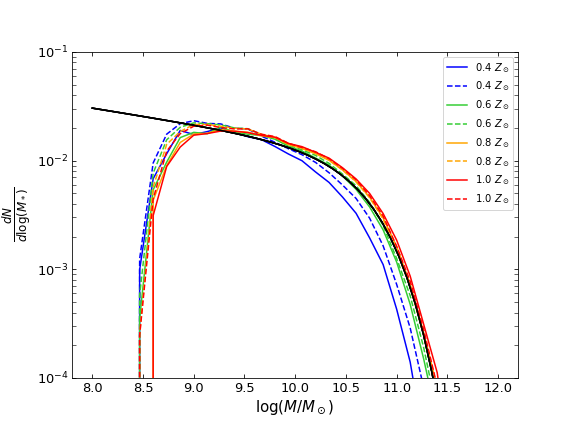
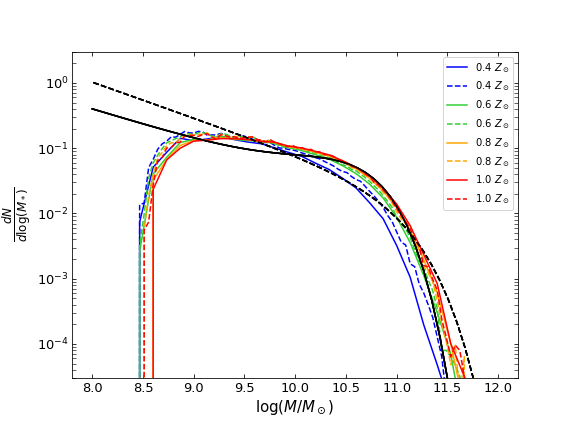
Changes to mass function

diff --git a/utilities.py b/utilities.py
@@ -8,28 +8,28 @@ Created on Tue Jun 18 10:34:22 2019
 """
 
 import numpy as np
-from astropy import units 
+from astropy import units
 
 import wquantiles as wq
 
+
 class Models():
 
-    def sfr(t,tau, M_inf):
+    def sfr(t, tau, M_inf):
         return M_inf/tau * t/tau * np.exp(-t/tau)
 
-
     def stellar_mass(tau, M_inf, t=13.7*1e9):
-        return M_inf * ( 1 - np.exp(-t/tau)*(tau+t)/tau)
+        return M_inf * (1 - np.exp(-t/tau)*(tau+t)/tau)
 
     def M_inf(tau, M_star, t=13.7*1e9):
         return M_star / (1 - np.exp(-t/tau)*(tau+t)/tau)
-    
+
     def ssfr(tau, t=13.7*1e9):
-        return (t/ tau**2 * np.exp(-t/tau))/( 1 - np.exp(-t/tau)*(tau+t)/tau)
-    
+        return t/tau**2 * np.exp(-t/tau) / (1 - np.exp(-t/tau)*(tau+t)/tau)
+
     def birth_rate_param_b(tau, t=13.7*units.Gyr):
         return t**2/(tau**2*np.exp(t/tau)-(t+tau)*tau)
-    
+
 
 class Statistics():
     def RunningMedian_2d(x, map_array, num_windows):
@@ -37,78 +37,78 @@ class Statistics():
         sorted_map = np.sort(map_array)
         runningmedian = []
         map_central_points= []
-        
+
         for i in range(0, num_windows):
             if i != num_windows-1:
                 window_positions = np.where((map_array>=sorted_map[i*window_elements])&(map_array>=sorted_map[(i+1)*window_elements]))[0]
-                runningmedian.append(np.nanmedian(x[window_positions])) 
-                map_central_points.append(np.nanmean(sorted_map[i*window_elements:(i+1)*window_elements]))                                  
+                runningmedian.append(np.nanmedian(x[window_positions]))
+                map_central_points.append(np.nanmean(sorted_map[i*window_elements:(i+1)*window_elements]))
             else:
                 window_positions = np.where(map_array>=sorted_map[i*window_elements])[0]
-                runningmedian.append(np.nanmedian(x[window_positions])) 
-                map_central_points.append(np.nanmean(sorted_map[i*window_elements:(i+1)*window_elements]))                                  
+                runningmedian.append(np.nanmedian(x[window_positions]))
+                map_central_points.append(np.nanmean(sorted_map[i*window_elements:(i+1)*window_elements]))
         return runningmedian, map_central_points
 
     def RunningMedian_2d2(x, map_array, window_width):
-        
+
         sorted_positions = np.argsort(map_array)
         x_ordered = x[sorted_positions]
-        
+
         runningmedian = []
         standard_deviation = []
         print('--> Generating runningmedian with ', window_width, ' neighbours per element \n')
         for i in range(len(x)):
-            
+
             if i<window_width//2:
                     runningmedian.append(np.nanmedian(x_ordered[:2*i]))
                     standard_deviation.append(np.nanstd(x_ordered[:2*i]))
-            elif i>(len(x)-window_width//2):                
+            elif i>(len(x)-window_width//2):
                     runningmedian.append(np.nanmedian(x_ordered[2*i-len(x):]))
                     standard_deviation.append(np.nanstd(x_ordered[2*i-len(x):]))
             else:
                 runningmedian.append(np.nanmedian(x_ordered[i-window_width//2:i+window_width//2]))
                 standard_deviation.append(np.nanstd(x_ordered[i-window_width//2:i+window_width//2]))
-                
+
         return np.array(runningmedian), np.array(standard_deviation)
-    
+
     def Runningpercentile_2d(x, map_array, window_width, q_percent):
-        
+
         sorted_positions = np.argsort(map_array)
         x_ordered = x[sorted_positions]
-        
+
         runningmedian = []
         standard_deviation = []
         print('--> Generating runningPercentile with ', window_width, ' neighbours per element \n')
         for i in range(len(x)):
-            
+
             if i<window_width//2:
                     runningmedian.append(np.nanpercentile(x_ordered[:2*i], q_percent))
                     standard_deviation.append(np.nanstd(x_ordered[:2*i]))
-            elif i>(len(x)-window_width//2):                
+            elif i>(len(x)-window_width//2):
                     runningmedian.append(np.nanpercentile(x_ordered[2*i-len(x):], q_percent))
                     standard_deviation.append(np.nanstd(x_ordered[2*i-len(x):]))
             else:
                 runningmedian.append(np.nanpercentile(x_ordered[i-window_width//2:i+window_width//2]
                 , q_percent))
                 standard_deviation.append(np.nanstd(x_ordered[i-window_width//2:i+window_width//2]))
-                
+
         return np.array(runningmedian), np.array(standard_deviation)
-    
+
     def Running_weighted_percentile_2d(x, map_array, weights, window_width, q_percent):
-        
+
         sorted_positions = np.argsort(map_array)
         x_ordered = x[sorted_positions]
         sorted_weights = weights[sorted_positions]
-        
+
         runningmedian = []
         standard_deviation = []
         print('--> Generating runningPercentile with ', window_width, ' neighbours per element \n')
         for i in range(len(x)):
-            
+
             if i<window_width//2:
                     runningmedian.append(wq.quantile_1D(x_ordered[:2*i+1], sorted_weights[:2*i+1], q_percent))
                     standard_deviation.append(np.nanstd(x_ordered[:2*i+1]))
-            elif i>(len(x)-window_width//2):                
+            elif i>(len(x)-window_width//2):
                     runningmedian.append(wq.quantile_1D(x_ordered[2*i-len(x)-1:], sorted_weights[2*i-len(x)-1:]
                     , q_percent))
                     standard_deviation.append(np.nanstd(x_ordered[2*i-len(x)-1:]))
@@ -116,30 +116,30 @@ class Statistics():
                 runningmedian.append(wq.quantile_1D(x_ordered[i-window_width//2:i+window_width//2],
                 sorted_weights[i-window_width//2:i+window_width//2],  q_percent))
                 standard_deviation.append(np.nanstd(x_ordered[i-window_width//2:i+window_width//2]))
-                
+
         return np.array(runningmedian), np.array(standard_deviation)
-    
-    def Bowley_YuleAsymm_coeff(q_075, q_050, q_025):    
+
+    def Bowley_YuleAsymm_coeff(q_075, q_050, q_025):
         """ Symmetric distributions will present q_075+q_025=2*q_050 """
         A_BY = (q_075+q_025-2*q_050)/(q_075-q_025)
         return A_BY
-    
+
 class Ansatz():
 
-    
-    def alpha12beta_powlaw(tau, tau_0, alpha1, alpha2, beta):        
-        
+
+    def alpha12beta_powlaw(tau, tau_0, alpha1, alpha2, beta):
+
         x = tau/tau_0
-        dN_dtau = pow(x, alpha1)/pow(1+x**beta, (alpha1+alpha2)/beta)        
+        dN_dtau = pow(x, alpha1)/pow(1+x**beta, (alpha1+alpha2)/beta)
         integral_dndtau_dtau = np.trapz(dN_dtau, tau)
         return  dN_dtau/(integral_dndtau_dtau)
-    
+
     def dpdtau(M, tau):
-        """The propability of presenting tau given a mass""" 
+        """The propability of presenting tau given a mass"""
         eta_tau = 0.07
         tau_c = 2.454
         tau_0 = tau_c*(M/(10**(10.13)))**eta_tau
-        
+
         eta1 = -0.65
         alpha_c1 = 3.7
         alpha1 = 1 +(alpha_c1-1)*(M/10**(10.13))**(eta1)
@@ -147,22 +147,22 @@ class Ansatz():
         eta2 = 0.65
         alpha_c2 = 3.7
         alpha2 = 1 +(alpha_c2-1)*(M/10**(10.13))**(eta2)
-                
+
         beta = 4
-        
+
         dpdtau = Ansatz.alpha12beta_powlaw(tau,
                                           tau_0,
                                           alpha1,
                                           alpha2,
                                           beta)
         return dpdtau
-    
-    def dndMass(M, Mprime=10**(10.6), alpha= -1.25, phi=1.5*1e10):        
+
+    def dndMass(M, Mprime=10**(10.6), alpha= -1.25, phi=1.5*1e10):
         """schechter_mass_function"""
         return phi*np.exp(-(M/Mprime))/Mprime *(M/Mprime)**(alpha+1)
-    
-    
-    
-    
-    
-    
+
+
+
+
+
+

diff --git a/schechter_mass_function_fit.py b/schechter_mass_function_fit.py
@@ -17,11 +17,11 @@ from utilities import Statistics as stat
 from utilities import Models as SFH
 
 
-""" 
+"""
 
 THIS CODE PROVIDES NEXT FIGURES:
-    
-    - COLOR-COLOR DIAGRAM WITH MODELS OVERPLOTED, COL-MAG DIAG WITH 
+
+    - COLOR-COLOR DIAGRAM WITH MODELS OVERPLOTED, COL-MAG DIAG WITH
     RUNNING PERCENTILES.
     - TAU-MASS DISTRIBUTION IN METALLICITY BINS WITH RUN-PERCENTS.
     - sSFR-MASS DISTRIBUTION IN METALLICITY BINS WITH RUN-PERCENTS.
@@ -44,7 +44,7 @@ g_r = g_abs-r_abs
 
 
 #%% =============================================================================
-# Tau assignment for each galaxy in the SDSS sample 
+# Tau assignment for each galaxy in the SDSS sample
 # =============================================================================
 
 u_r_lim =[1.2, 3.5]
@@ -77,46 +77,46 @@ for i, Z in enumerate(GOOD_MET):
     # Using u-r ----------------------------------------------
     tau_u_r_lim = [np.interp(u_r_lim[1], u_r_model[i], tau),
                    np.interp(u_r_lim[0], u_r_model[i], tau)]
-    
-    tau_u_r_p = np.interp(u_r, u_r_model[i], tau)    
-    
+
+    tau_u_r_p = np.interp(u_r, u_r_model[i], tau)
+
     tau_u_r_p[tau_u_r_p<tau_u_r_lim[0]] = np.nan
     tau_u_r_p[tau_u_r_p>tau_u_r_lim[1]] = np.nan
-    
+
     tau_u_r_met_bins.append(tau_u_r_p)
-    
+
     # Using g-r ----------------------------------------------
     tau_g_r_lim = [np.interp(g_r_lim[1], g_r_model[i], tau),
                    np.interp(g_r_lim[0], g_r_model[i], tau)]
-    
-    tau_g_r_p = np.interp(g_r, g_r_model[i], tau)    
+
+    tau_g_r_p = np.interp(g_r, g_r_model[i], tau)
     tau_g_r_p[tau_g_r_p<tau_g_r_lim[0]] = np.nan
     tau_g_r_p[tau_g_r_p>tau_g_r_lim[1]] = np.nan
-    
+
     tau_g_r_met_bins.append(tau_g_r_p)
-    
+
     """MASS"""
-    
+
     # Using u-r ----------------------------------------------
     r_mag_p = np.interp(u_r, u_r_model[i], R[i], left=999, right=999)
     r_mag_p[r_mag_p==999] = np.nan
-        
+
     mass_r_SDSS_u_r_p = mass_model*pow(10, -0.4*(r_abs-r_mag_p))
-    
+
     mass_met_bins_u_r.append(mass_r_SDSS_u_r_p)
-    
-    
+
+
     # Using g-r ----------------------------------------------
     r_mag_p = np.interp(g_r, g_r_model[i], R[i], left=999, right=999)
     r_mag_p[r_mag_p==999] = np.nan
-            
+
     mass_r_SDSS_g_r_p = mass_model*pow(10, -0.4*(r_abs-r_mag_p))
-    
+
     mass_met_bins_g_r.append(mass_r_SDSS_g_r_p)
-    
+
     m_inf_u_r_p = SFH.M_inf(tau_u_r_p, mass_r_SDSS_u_r_p)
     M_inf_met_bins_u_r.append(m_inf_u_r_p)
-    
+
     m_inf_g_r_p = SFH.M_inf(tau_g_r_p, mass_r_SDSS_g_r_p)
     M_inf_met_bins_g_r.append(m_inf_g_r_p)
 
@@ -133,47 +133,63 @@ tau_u_r_met_bins = np.array(tau_u_r_met_bins)
 tau_g_r_met_bins = np.array(tau_g_r_met_bins)
 
 
-#%%
+# %%
 
 
 def schechter_mass_function(M, Mprime, alpha, phi=1):
-    return phi*np.exp(-(M/Mprime))/Mprime *(M/Mprime)**(alpha+1)
+    return phi * np.exp(-(M/Mprime))/Mprime * (M/Mprime)**alpha
+
+
+def schechter_dn_dlog10M(M, Mprime, alpha, phi=1):
+    return phi*np.log(10) * np.exp(-(M/Mprime)) * (M/Mprime)**(alpha+1)
+
+
+def GAMA_dn_dlog10M(M):
+    return(schechter_dn_dlog10M(M, 10**10.66, -0.35, 3.96e-3) +
+           schechter_dn_dlog10M(M, 10**10.66, -1.47, 0.79e-3))
 
 
 mass_vector = np.logspace(12, 8)
-plt.rcParams['axes.edgecolor']='black'
-plt.rcParams['axes.facecolor']='white'
-plt.figure(figsize=(8,6))    
+plt.rcParams['axes.edgecolor'] = 'black'
+plt.rcParams['axes.facecolor'] = 'white'
+plt.figure(figsize=(8, 6))
+#total_galaxy_density = np.sum(SDSS_V_max)
 for i, Z in enumerate(GOOD_MET):
-    ax1 = plt.subplot(1,1, 1)
+#    ax1 = plt.subplot(1, 1, 1)
 
     hh_u_r, logmass_bins = np.histogram(logmass_met_u_r[i], range=[8, 12],
-                                        weights=SDSS_V_max, bins=30,                                     
+                                        weights=SDSS_V_max, bins=30,
+                                        density=True
                                         )
     logmass_bins = (logmass_bins[1:]+logmass_bins[:-1])/2
-    plt.plot(logmass_bins, hh_u_r, color=color_met[i],
+    total_galaxy_density = np.sum(SDSS_V_max[~np.isnan(logmass_met_u_r[i])])
+    plt.plot(logmass_bins, hh_u_r*total_galaxy_density,
+             color=color_met[i],
              label=r'{:.2} $Z_\odot$'.format(models.metallicities[Z]/0.02))
-    
+
     hh_g_r, logmass_bins = np.histogram(logmass_met_g_r[i], range=[8, 12],
-                                        weights=SDSS_V_max, bins=30,                                     
+                                        weights=SDSS_V_max, bins=90,
+                                        density=True
                                         )
     logmass_bins = (logmass_bins[1:]+logmass_bins[:-1])/2
-    plt.plot(logmass_bins, hh_g_r, '--', color=color_met[i],
+    total_galaxy_density = np.sum(SDSS_V_max[~np.isnan(logmass_met_g_r[i])])
+    plt.plot(logmass_bins, hh_g_r*total_galaxy_density,
+             '--', color=color_met[i],
              label=r'{:.2} $Z_\odot$'.format(models.metallicities[Z]/0.02))
-    
-    plt.plot(np.log10(mass_vector), schechter_mass_function(mass_vector, 
-             10**(10.7), alpha=-1.15, phi=6*1e8), '-k')
-    
-    plt.ylim(1e-4, 1e-1)
+
+    plt.plot(np.log10(mass_vector), schechter_dn_dlog10M(mass_vector,
+             10**(11), alpha=-1.55, phi=.01), '--k')
+    plt.plot(np.log10(mass_vector), GAMA_dn_dlog10M(mass_vector/.7)*5/.7**3, '-k')
+
+    plt.ylim(3e-5, 3)
     plt.yscale('log')
     plt.ylabel(r'$\frac{dN}{d\log(M_*)}$', fontsize=17)
     plt.xlabel(r'$\log(M/M_\odot)$', fontsize=15)
     plt.legend()
-    plt.tick_params(which='both', length=4, direction = 'in',  right = True, top=True, labelsize=13, color='black')
-
-    
+    plt.tick_params(which='both', length=4, direction='in',
+                    right=True, top=True, labelsize=13, color='black')
 
 plt.savefig('mass_distrib_schechter.png')
 
 
-
+#
